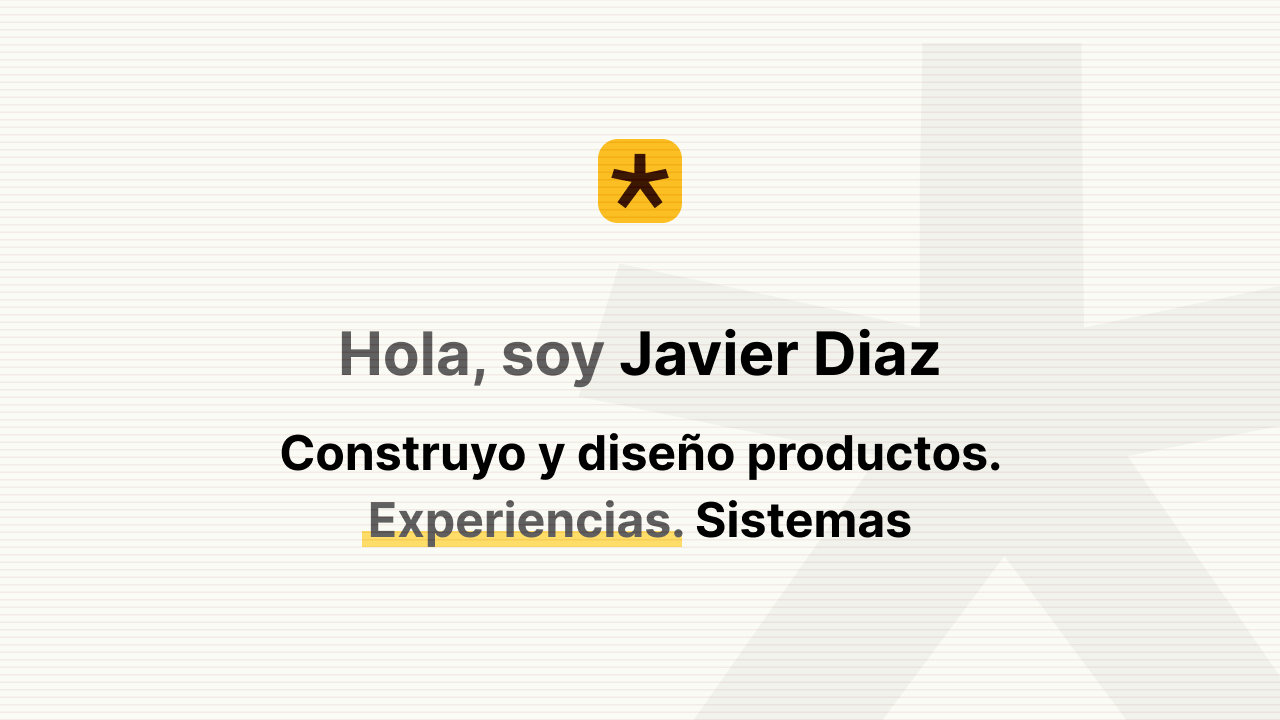
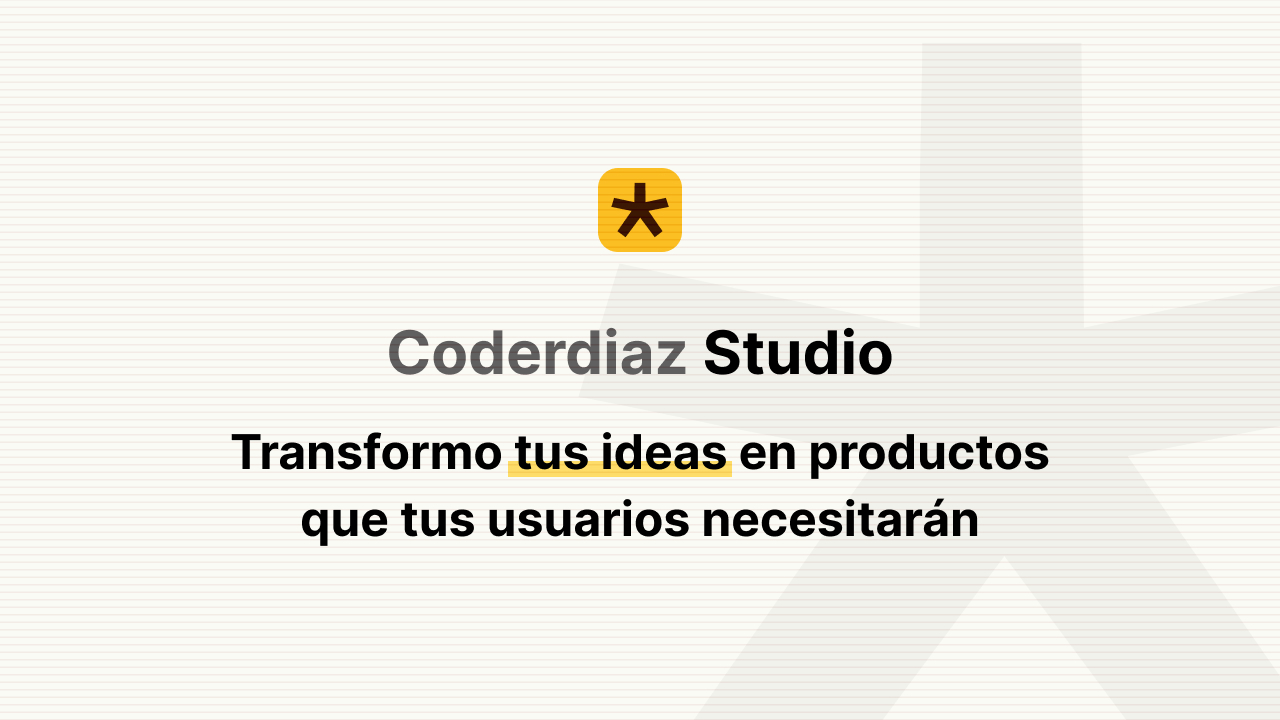
fix: updated seo info

Changed region(s): [[0.1875, 0.5806, 0.8438, 0.7639], [0.25, 0.4583, 0.75, 0.55], [0.4688, 0.1833, 0.5312, 0.3667]]

diff --git a/src/lib/constants.ts b/src/lib/constants.ts
@@ -16,9 +16,9 @@ export const social = {
 }
 
 export const defaultSeo = {
-  title: 'Coderdiaz Studio — Solo-studio de diseño y desarrollo web',
-  description: 'Transformamos tus ideas y mejoramos la experiencia de tus productos digitales, desde el diseño hasta su desarrollo, para que puedas llevarlo rápidamente a las manos de tus usuarios',
+  title: 'Coderdiaz Studio — Servicios de desarrollo web, diseño UX/UI, y software',
+  description: 'Transformamos tus ideas y mejoramos la experiencia de tus productos digitales, desde el diseño hasta su desarrollo para que puedas llevarlo rápidamente a las manos de tus usuarios',
   robots: 'index, follow',
-  keywords: 'coderdiaz, desarrollo web, portfolio web, transforma tus ideas a soluciones, freelancer, diseño web, agencia digital, desarrollo a la medida, diseño de producto, software, jardin digital, javier diaz, coderdiaz.com',
+  keywords: 'coderdiaz, desarrollo web, portfolio web, transforma tus ideas a soluciones, freelancer, diseño web, agencia digital, desarrollo a la medida, diseño de producto, software, jardin digital, javier diaz, coderdiaz.com, desarrollo de software a medida, estudio de diseño, estudio de software, software studio, design studio',
   image: meta,
 }
